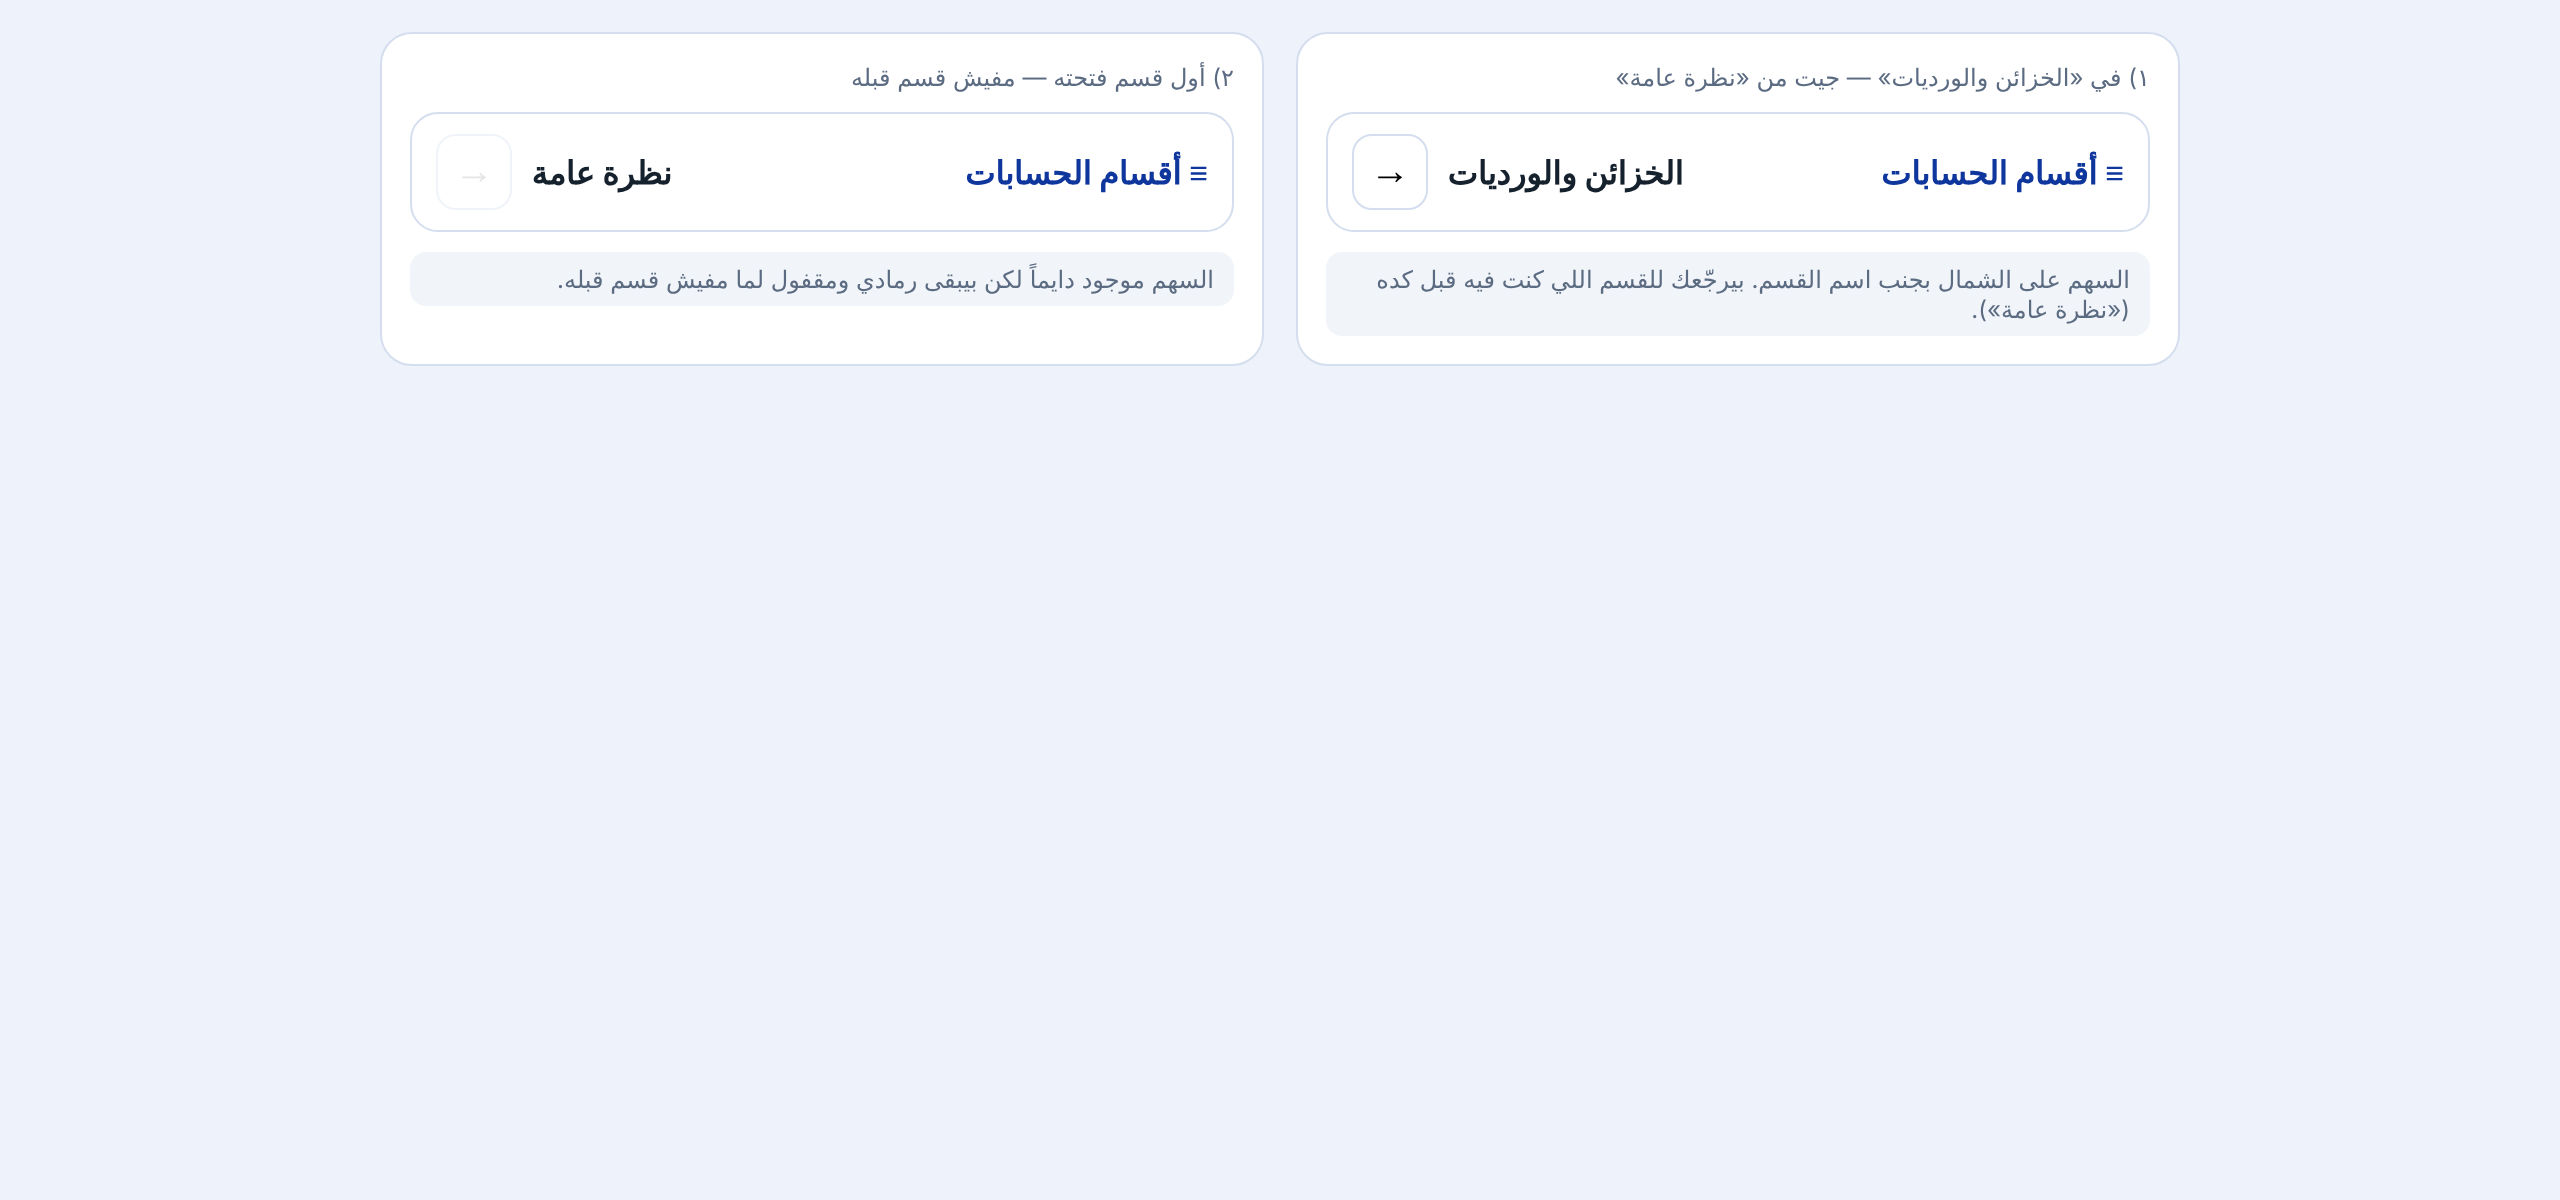
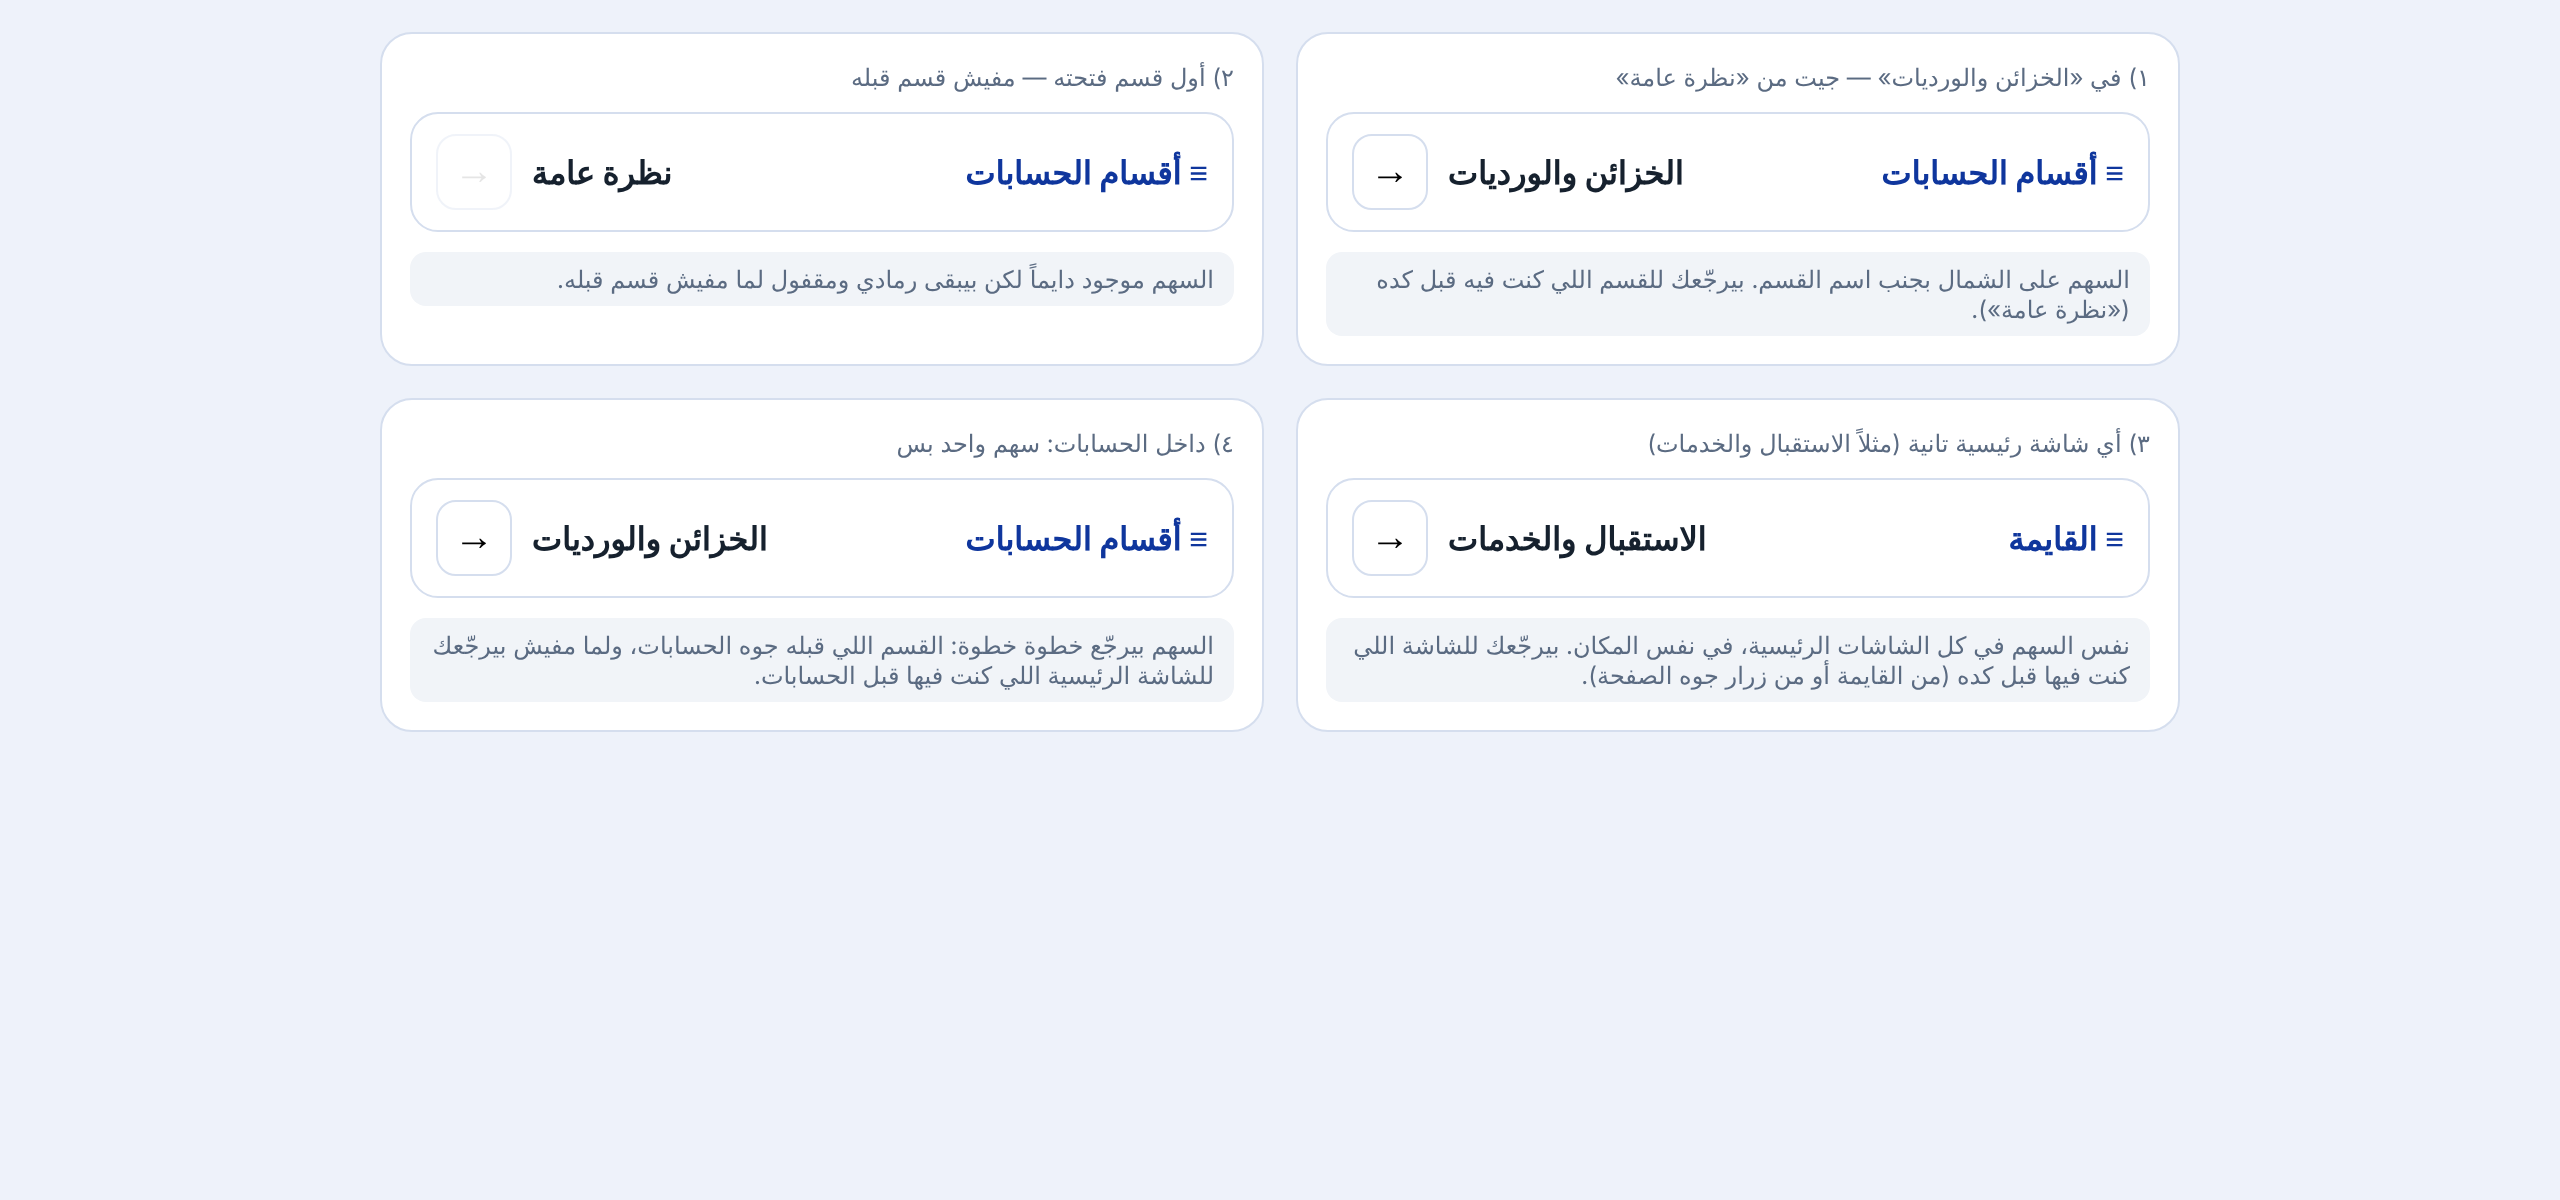
Mockup: back arrow in every main screen + accounting shell

diff --git a/docs/ui-references/mockups/accounting-back-arrow.html b/docs/ui-references/mockups/accounting-back-arrow.html
@@ -15,4 +15,10 @@
 <div class="card"><span class="cap">٢) أول قسم فتحته — مفيش قسم قبله</span>
 <div class="bar"><span class="menu">≡ أقسام الحسابات</span><span class="left"><span class="cur">نظرة عامة</span><button class="bk" disabled aria-label="رجوع">→</button></span></div>
 <div class="note">السهم موجود دايماً لكن بيبقى رمادي ومقفول لما مفيش قسم قبله.</div></div>
+<div class="card"><span class="cap">٣) أي شاشة رئيسية تانية (مثلاً الاستقبال والخدمات)</span>
+<div class="bar"><span class="menu">≡ القايمة</span><span class="left"><span class="cur">الاستقبال والخدمات</span><button class="bk" aria-label="رجوع إلى الشاشة اللي قبلها">→</button></span></div>
+<div class="note">نفس السهم في كل الشاشات الرئيسية، في نفس المكان. بيرجّعك للشاشة اللي كنت فيها قبل كده (من القايمة أو من زرار جوه الصفحة).</div></div>
+<div class="card"><span class="cap">٤) داخل الحسابات: سهم واحد بس</span>
+<div class="bar"><span class="menu">≡ أقسام الحسابات</span><span class="left"><span class="cur">الخزائن والورديات</span><button class="bk" aria-label="رجوع">→</button></span></div>
+<div class="note">السهم بيرجّع خطوة خطوة: القسم اللي قبله جوه الحسابات، ولما مفيش بيرجّعك للشاشة الرئيسية اللي كنت فيها قبل الحسابات.</div></div>
 </div>
